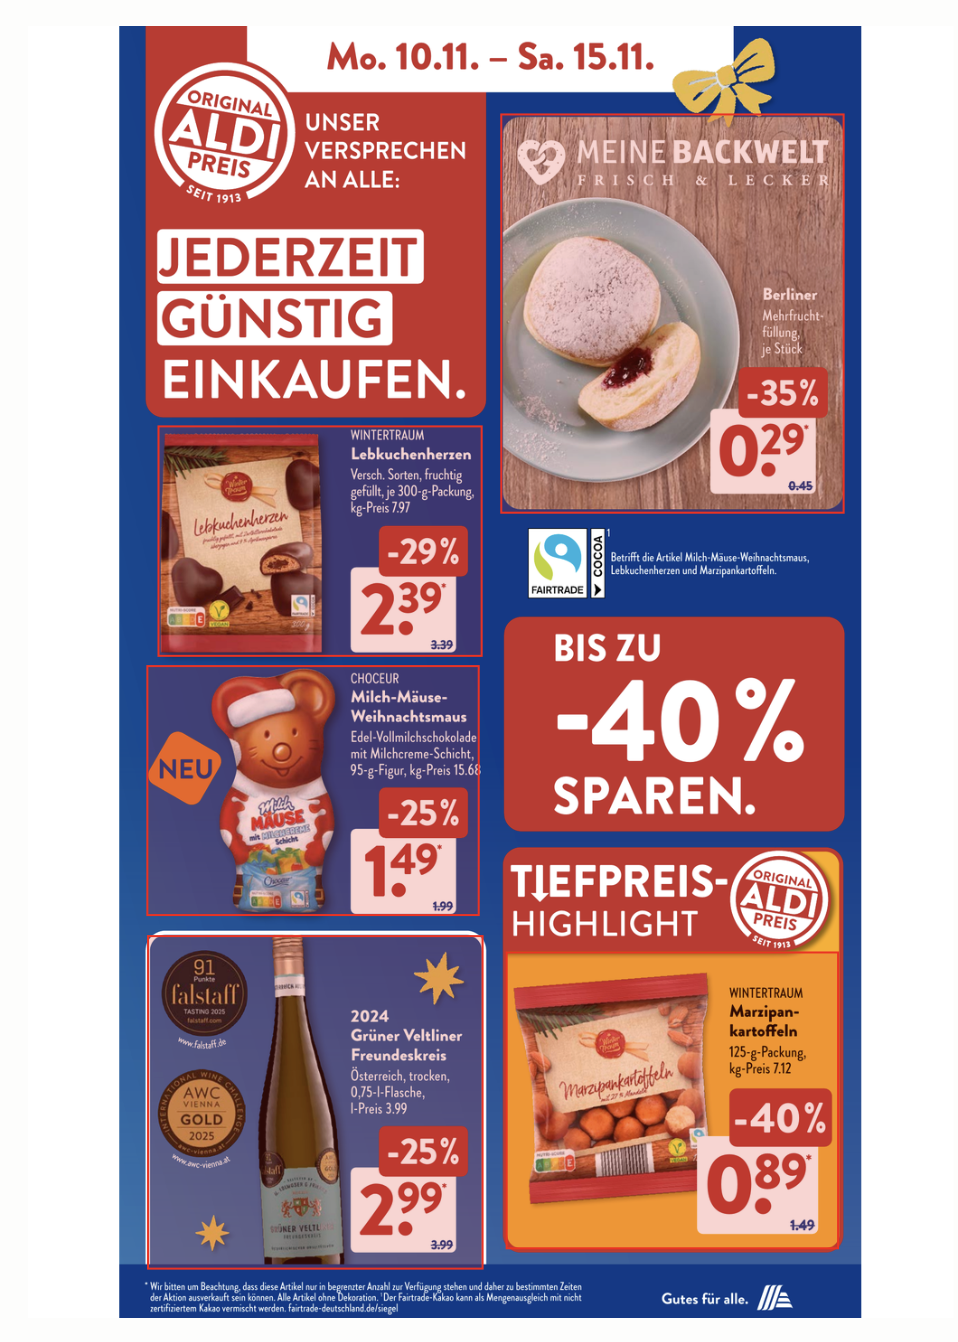
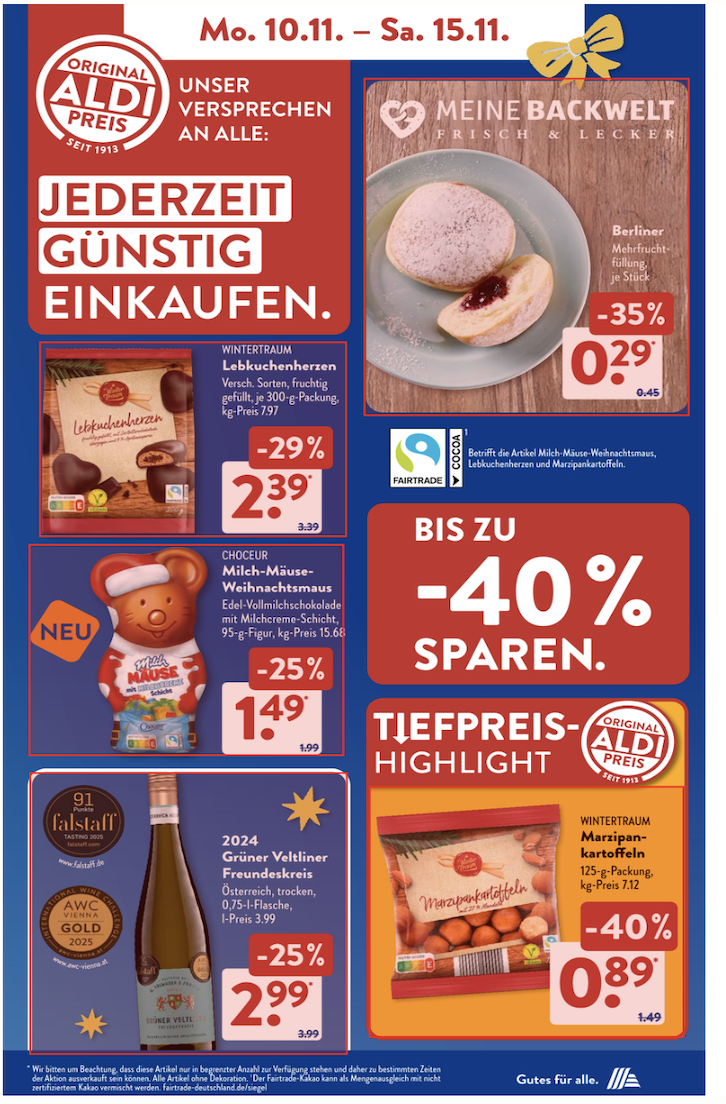
Modify README

diff --git a/data/README.md b/data/README.md
@@ -68,12 +68,18 @@ Annotation Workflow
 6. Convert the JSON exported from Label Studio into a required structure like [rewe_annotated/example](images_uniform/rewe_annotated/rewe_10112025_page_1.json).
 
 Here are the same brochure page before and after annotation:
-
-Before:
-![before](README_pics/annotation_before.png)
-
-After:
-![after](README_pics/annotation_after.png)
+```html
+<table>
+  <tr>
+    <td align="center"><b>Gemini Annotation</b></td>
+    <td align="center"><b>Human Annotation After</b></td>
+  </tr>
+  <tr>
+    <td><img src="README_pics/annotation_before.png" width=907></td>
+    <td><img src="README_pics/annotation_after.png" width=726></td>
+  </tr>
+</table>
+```
 
 ## Exported and Normalized Annotation Format
 Label Studio exports each annotated page as a dictionary inside a JSON list.
